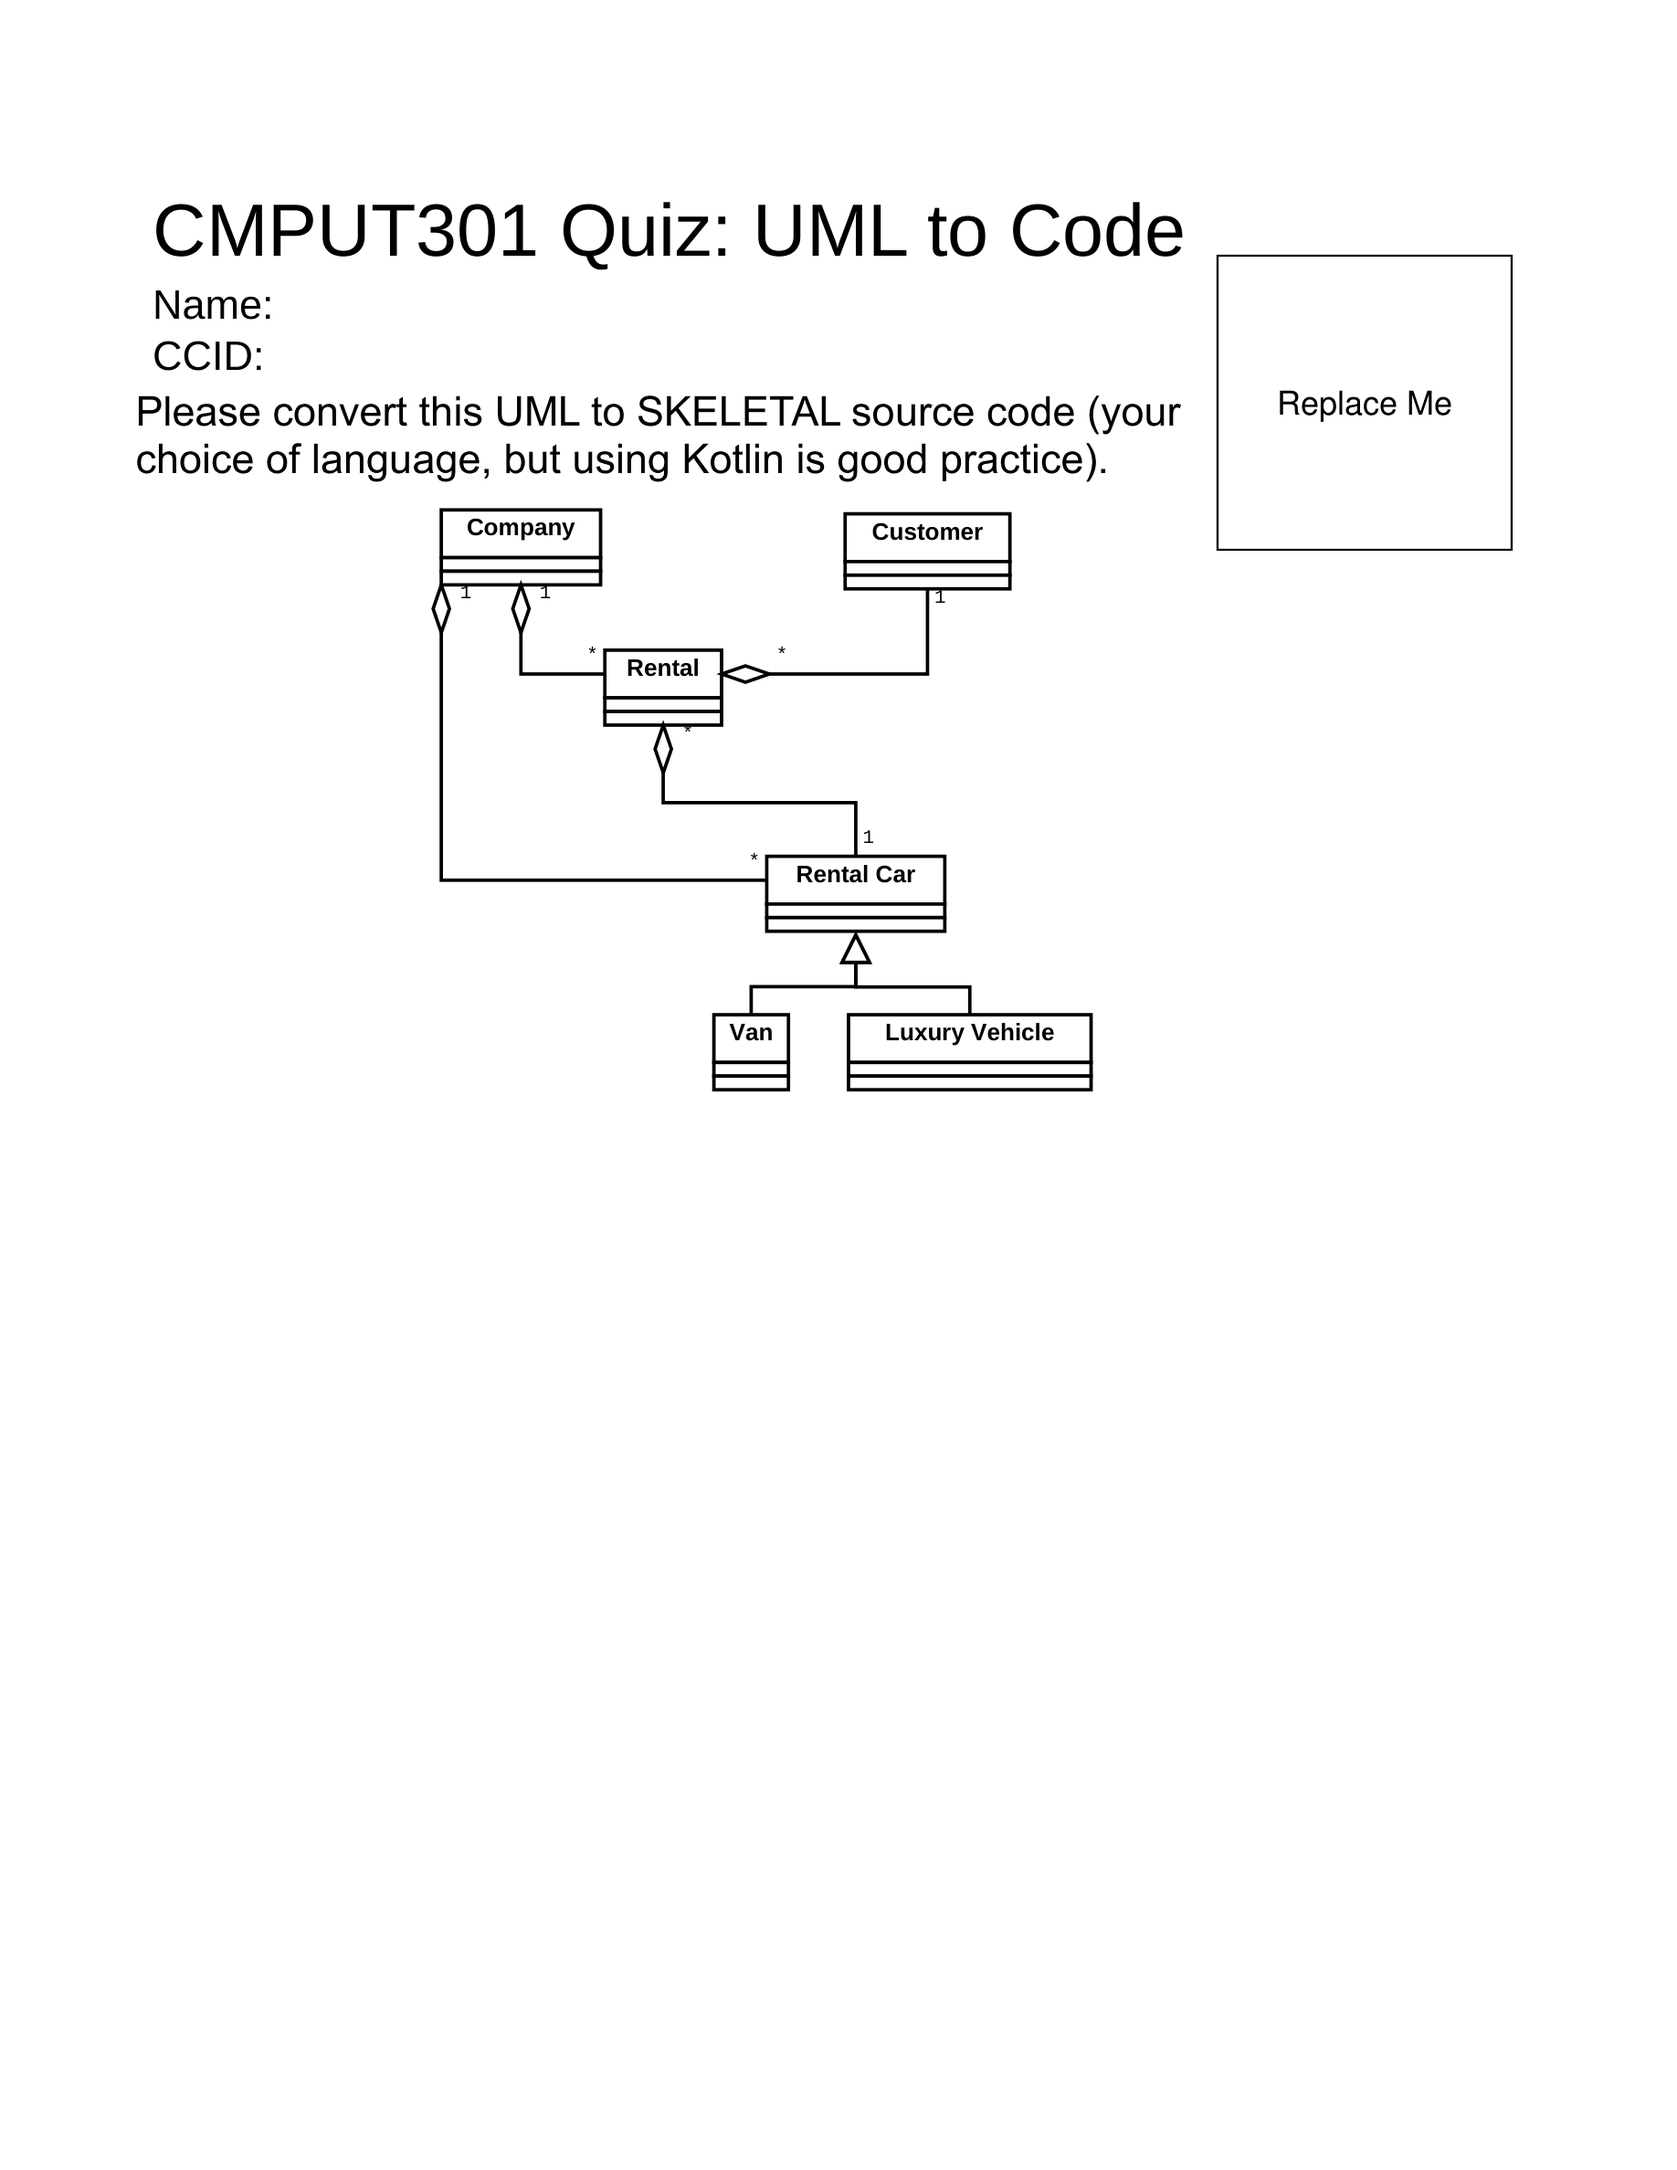
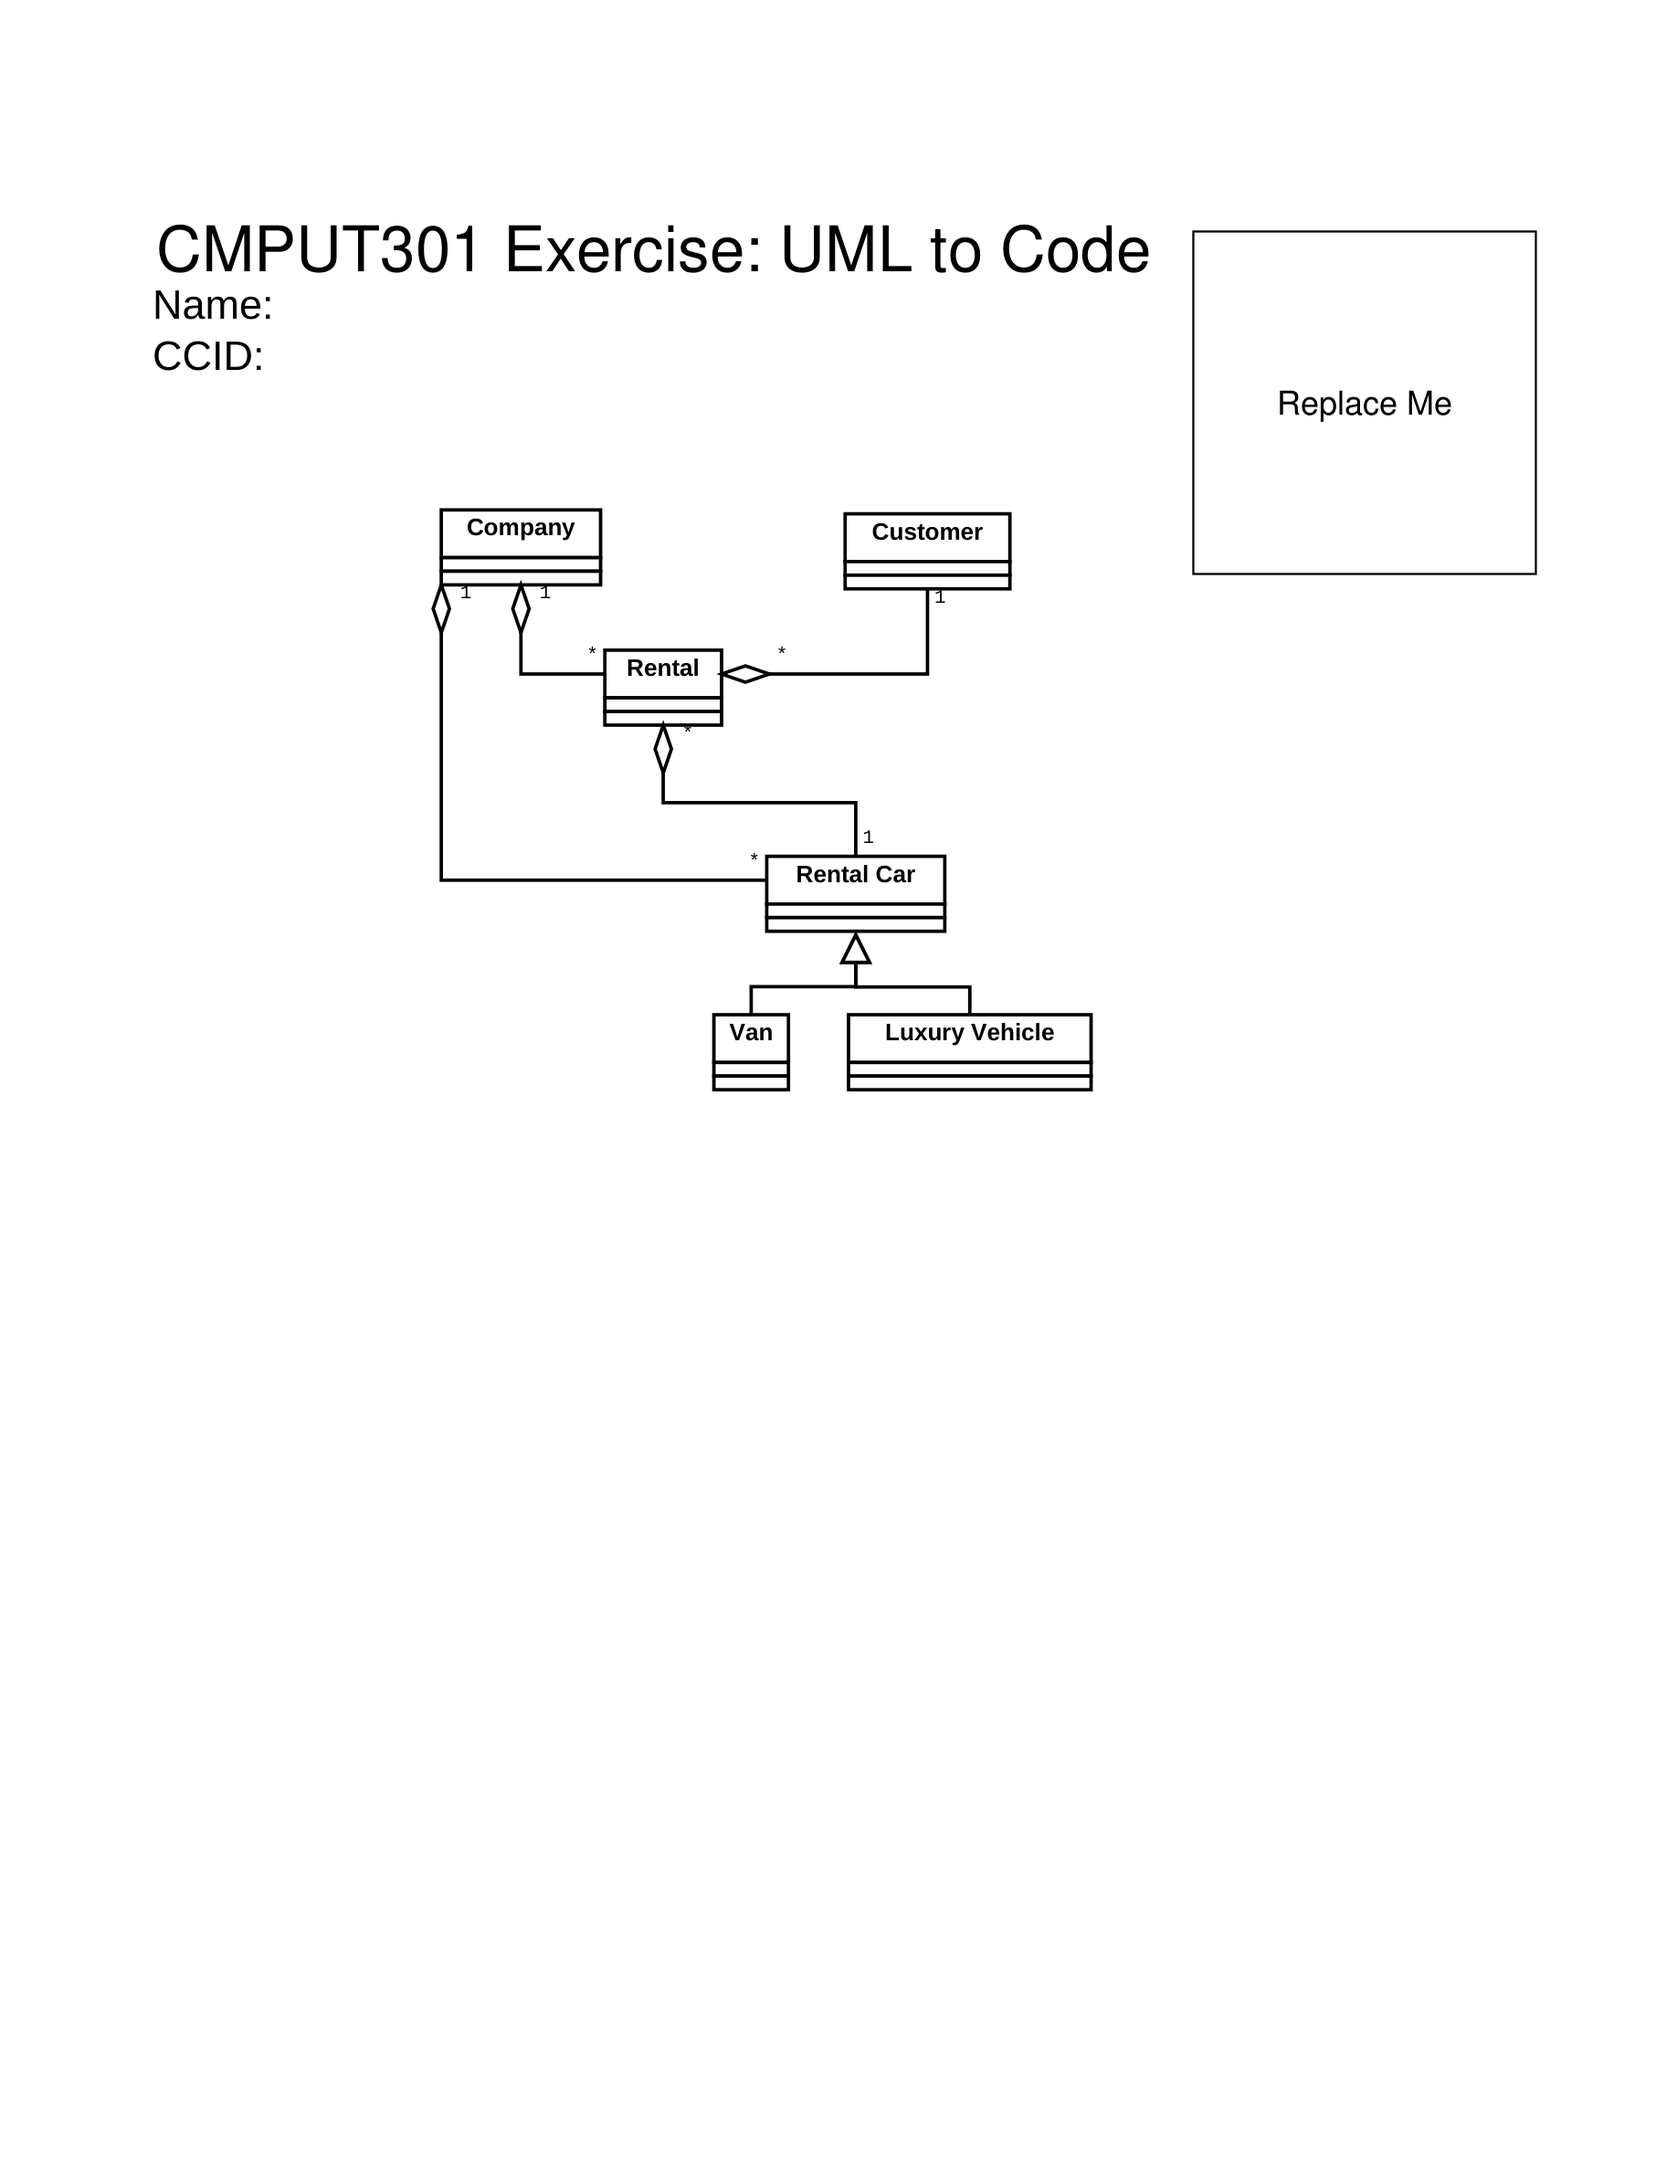
Update to local storage policy, removed cookies, exercise template updates for QR size and wording changes

Changed region(s): [[0.0931, 0.1869, 0.7141, 0.218], [0.0931, 0.0934, 0.7141, 0.1246], [0.9003, 0.1246, 0.9314, 0.2492]]

diff --git a/templates/cmput301/static/js/hybrid-exercise.js b/templates/cmput301/static/js/hybrid-exercise.js
@@ -17,8 +17,7 @@
   const DEFAULT_QR_LIBRARY_INTEGRITY =
     "sha384-3zSEDfvllQohrq0PHL1fOXJuC/jSOO34H46t6UQfobFOmxE5BpjjaIJY5F2/bMnU";
   const STUDENT_NUMBER_PATTERN = /^\d{7}$/;
-  const STUDENT_NUMBER_COOKIE_NAME = "cmput301_student_number";
-  const STUDENT_NUMBER_COOKIE_MAX_AGE_SECONDS = 60 * 60 * 24 * 365;
+  const STUDENT_NUMBER_STORAGE_KEY = "cmput301_student_number";
   const MAX_AUTH_CODE_LENGTH = 512;
   const MAX_EXERCISE_ID_LENGTH = 128;
   const GENERATION_ERROR_MARKER = "$error$";
@@ -41,62 +40,28 @@
     statusElement.dataset.state = state;
   }
 
-  function cookieValue(cookieHeader, name) {
-    const encodedName = `${encodeURIComponent(name)}=`;
-    for (const part of String(cookieHeader || "").split(";")) {
-      const candidate = part.trim();
-      if (!candidate.startsWith(encodedName)) {
-        continue;
-      }
-      try {
-        return decodeURIComponent(candidate.slice(encodedName.length));
-      } catch (_error) {
-        return "";
-      }
-    }
-    return "";
-  }
-
-  function studentNumberCookieHeader(studentNumber, maxAge, secure) {
-    const attributes = [
-      `${encodeURIComponent(STUDENT_NUMBER_COOKIE_NAME)}=${encodeURIComponent(studentNumber)}`,
-      "Path=/",
-      `Max-Age=${maxAge}`,
-      "SameSite=Lax",
-    ];
-    if (secure) {
-      attributes.push("Secure");
-    }
-    return attributes.join("; ");
-  }
-
-  function readStudentNumberCookie(cookieDocument = document) {
+  function readStudentNumberStorage(storage = null) {
     try {
-      const studentNumber = cookieValue(
-        cookieDocument.cookie,
-        STUDENT_NUMBER_COOKIE_NAME,
-      );
+      const targetStorage = storage || window.localStorage;
+      const studentNumber =
+        targetStorage.getItem(STUDENT_NUMBER_STORAGE_KEY) || "";
       return STUDENT_NUMBER_PATTERN.test(studentNumber) ? studentNumber : "";
     } catch (_error) {
       return "";
     }
   }
 
-  function saveStudentNumberCookie(
+  function saveStudentNumberStorage(
     studentNumber,
-    cookieDocument = document,
-    secure = window.location.protocol === "https:",
+    storage = null,
   ) {
     if (!STUDENT_NUMBER_PATTERN.test(studentNumber)) {
       return false;
     }
     try {
-      cookieDocument.cookie = studentNumberCookieHeader(
-        studentNumber,
-        STUDENT_NUMBER_COOKIE_MAX_AGE_SECONDS,
-        secure,
-      );
-      return readStudentNumberCookie(cookieDocument) === studentNumber;
+      const targetStorage = storage || window.localStorage;
+      targetStorage.setItem(STUDENT_NUMBER_STORAGE_KEY, studentNumber);
+      return readStudentNumberStorage(targetStorage) === studentNumber;
     } catch (_error) {
       return false;
     }
@@ -572,7 +537,7 @@
     const exerciseUrl = root.dataset.exerciseUrl;
     const authUrl = root.dataset.authUrl || DEFAULT_AUTH_URL;
 
-    const storedStudentNumber = readStudentNumberCookie();
+    const storedStudentNumber = readStudentNumberStorage();
     if (!studentNumberInput.value && storedStudentNumber) {
       studentNumberInput.value = storedStudentNumber;
     }
@@ -595,7 +560,7 @@
         return;
       }
 
-      saveStudentNumberCookie(studentNumber);
+      saveStudentNumberStorage(studentNumber);
 
       generateButton.disabled = true;
       generateButton.setAttribute("aria-busy", "true");
@@ -663,15 +628,14 @@
 
   window.CMPUT301HybridExercise = Object.freeze({
     GENERATION_ERROR_MARKER,
-    STUDENT_NUMBER_COOKIE_MAX_AGE_SECONDS,
-    STUDENT_NUMBER_COOKIE_NAME,
+    STUDENT_NUMBER_STORAGE_KEY,
     buildHybridPayload,
     downloadFilename,
     initialize,
     initializeAll,
-    readStudentNumberCookie,
+    readStudentNumberStorage,
     resolveAuthCode,
-    saveStudentNumberCookie,
+    saveStudentNumberStorage,
   });
   if (document.readyState === "loading") {
     document.addEventListener("DOMContentLoaded", initializeAll, { once: true });
